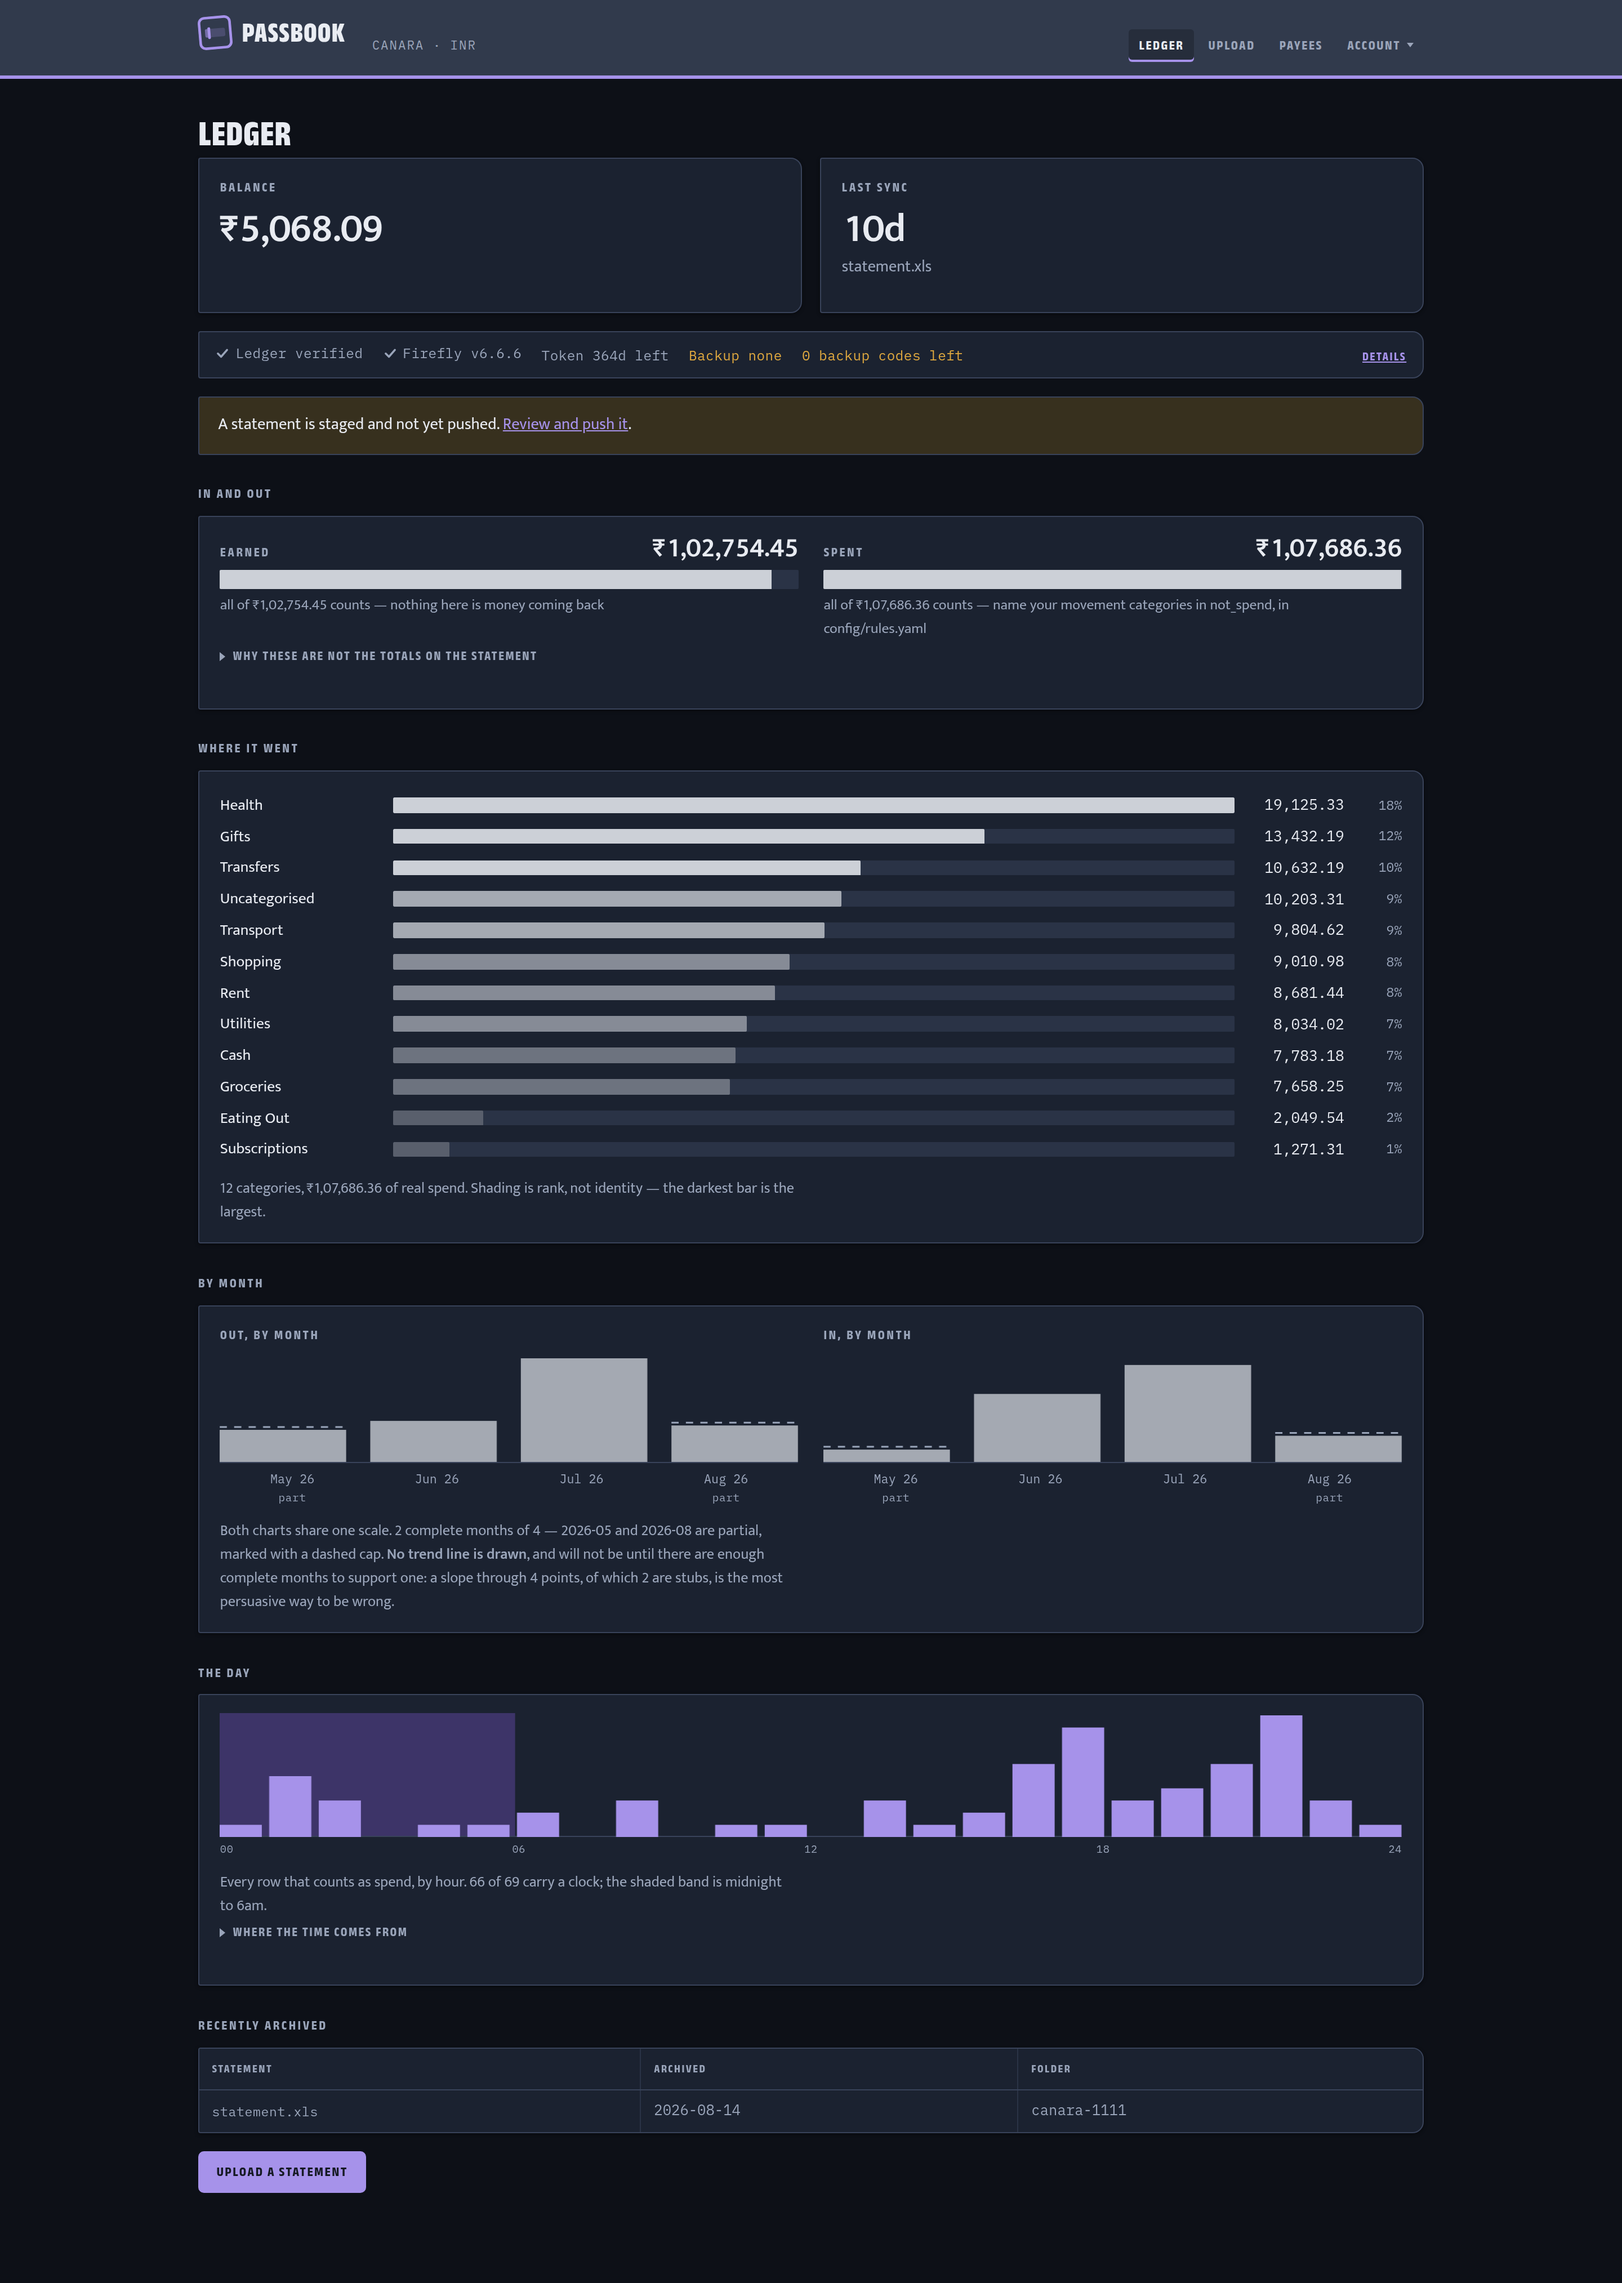
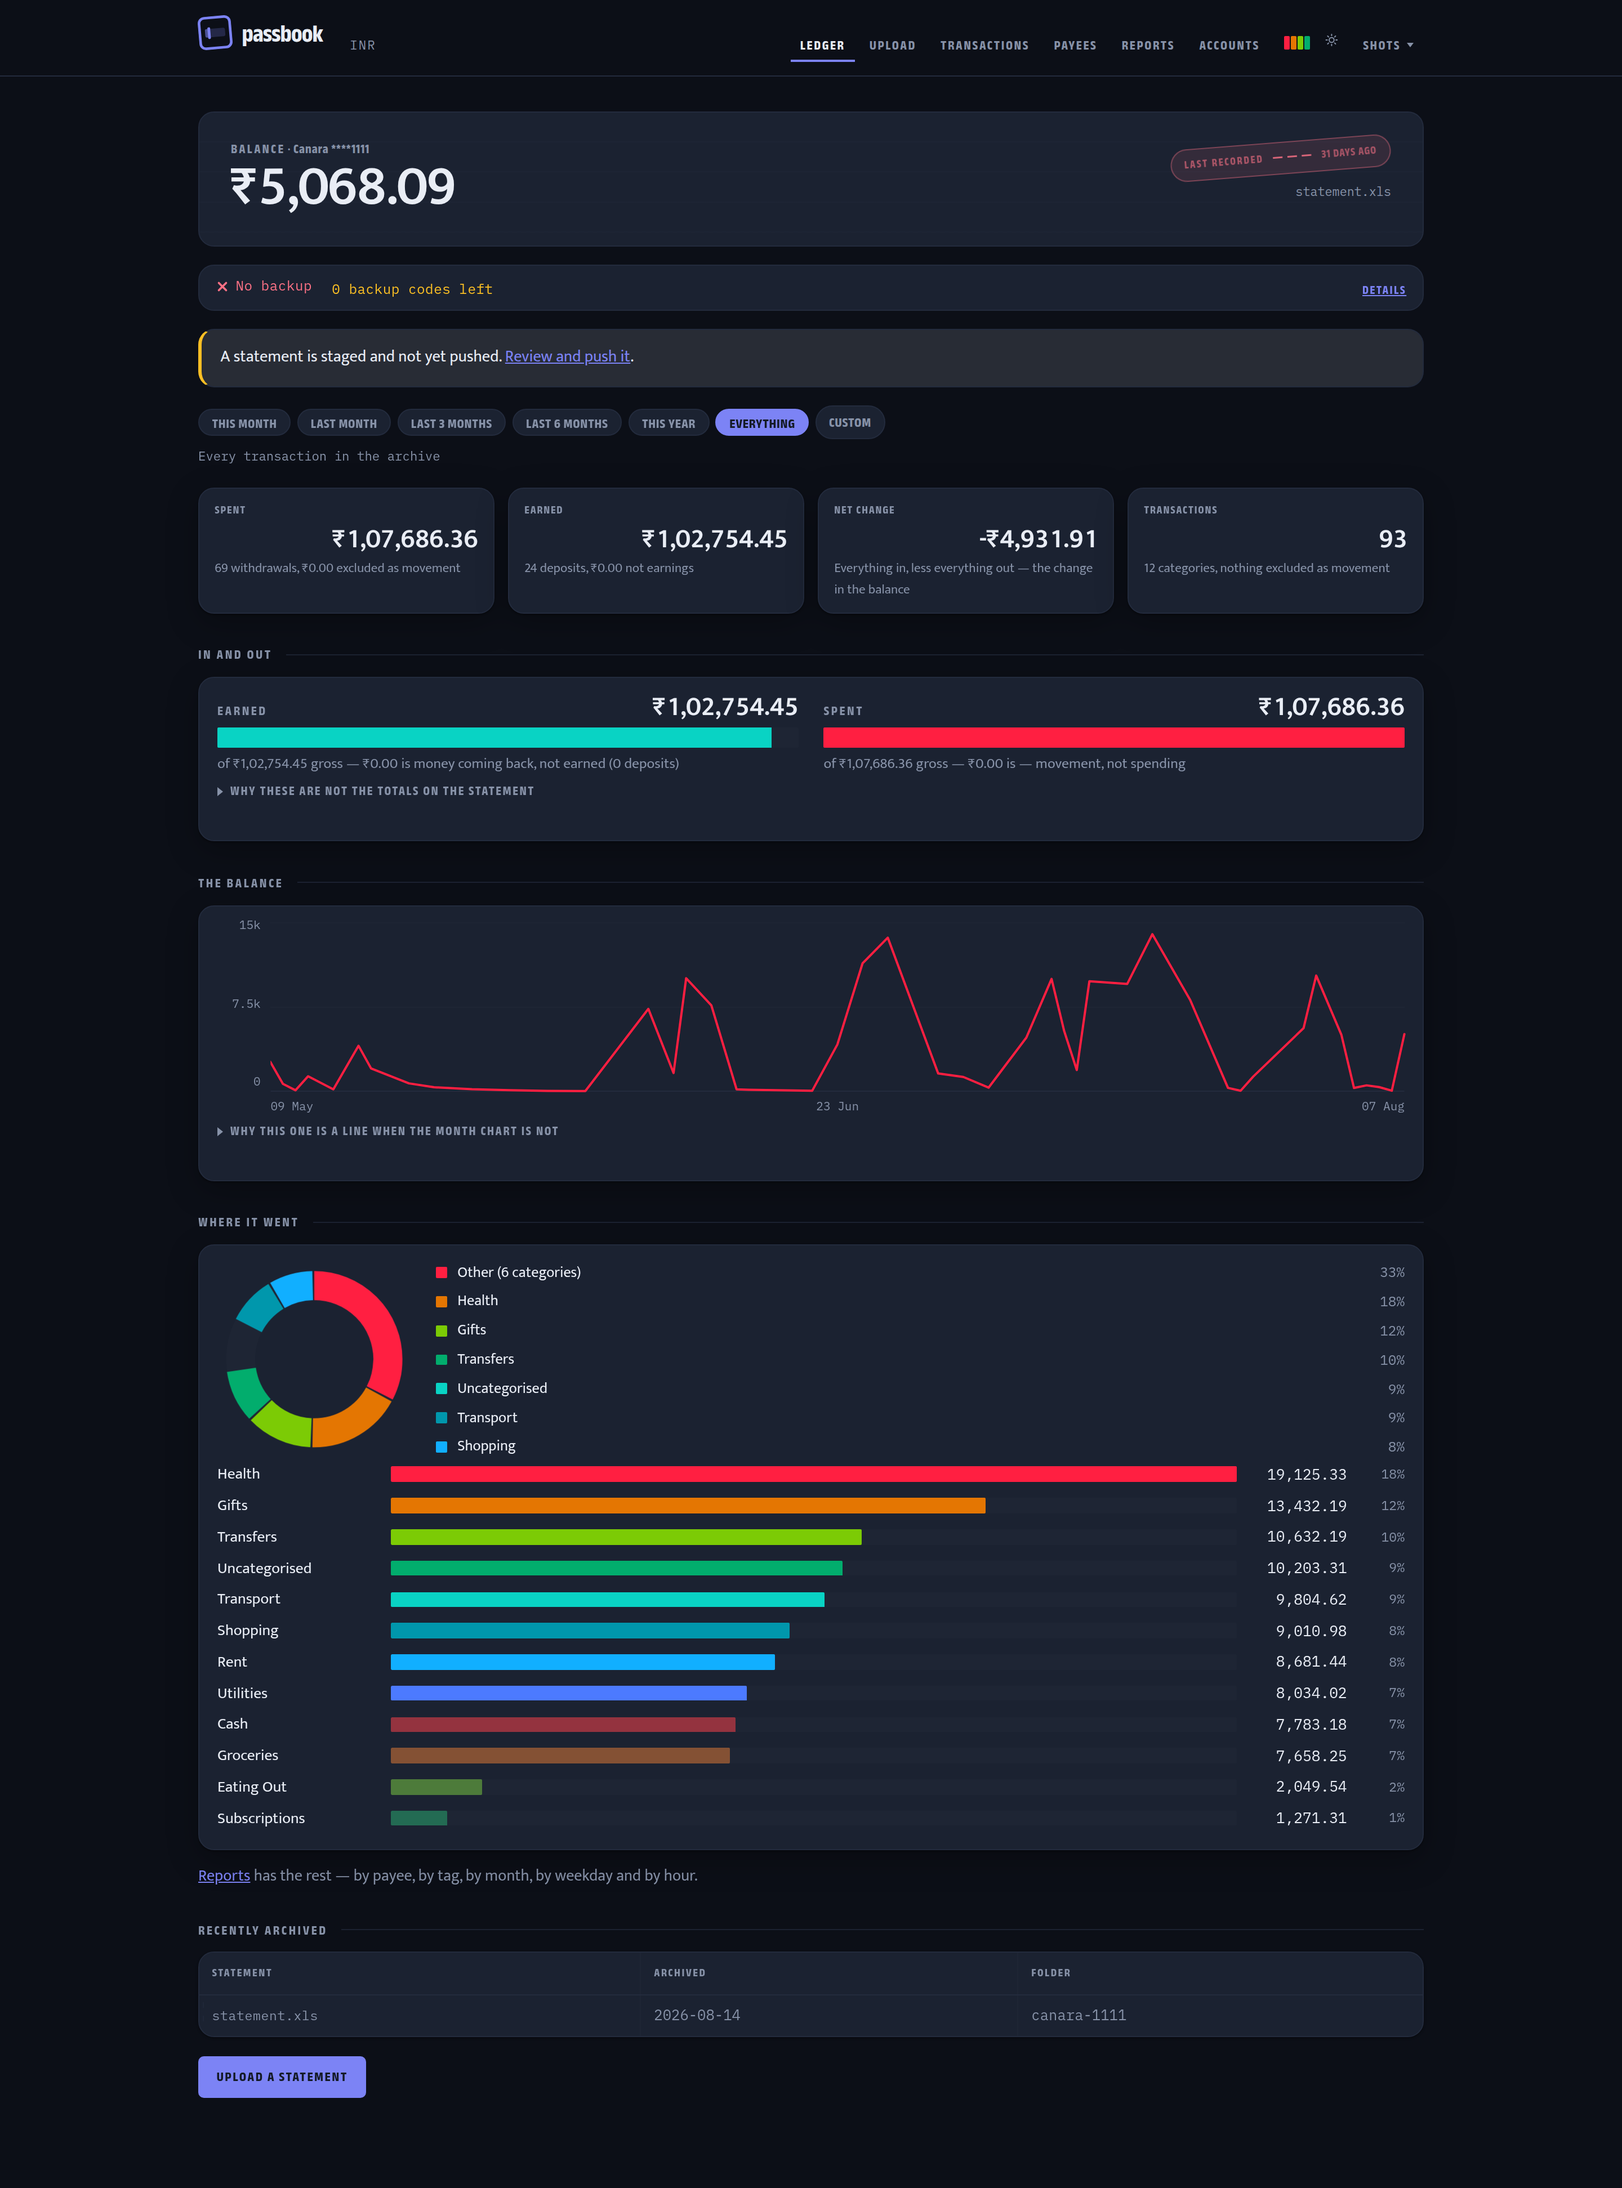
Document the pages that shipped and regenerate the screenshots from the fixture

diff --git a/README.md b/README.md
@@ -18,6 +18,11 @@ shows you what it excluded instead of hiding it.
 
 ![The Ledger page](docs/screenshots/ledger.png)
 
+<sub>Reports cuts the same analysis five ways — by category, by payee, by tag,
+over time, and the rhythm of the week:</sub>
+
+![Reports](docs/screenshots/reports.png)
+
 <sub>It reads the statement, categorises it, and pushes it into Firefly III,
 which keeps the ledger:</sub>
 
@@ -62,6 +67,23 @@ No terminal.
 | ⚠ | Needs a PC (Windows, macOS or Linux). Not a phone |
 | ❌ | You want automatic bank sync — India's Account Aggregator framework is closed to individuals, so nobody self-hosted can offer it |
 
+## What it does
+
+Everything below happens in the browser. There is a CLI and you never have to
+open it.
+
+| | |
+|---|---|
+| **Upload** | drop the statement in; it parses, walks the balance chain, and shows you what it found before anything is written |
+| **Ledger** | balance, what you spent, what you earned, where it went, and the rhythm of your week |
+| **Rows** | every transaction, searchable — by payee, category, amount band, tag or date |
+| **Reports** | by category, by payee, by tag, over time — one page with a control, not five screens |
+| **Payees** | name them once; the naming sticks, and edits reach rows already in the ledger |
+| **Accounts** | add, rename and remove accounts; combine any subset in one view |
+| **Add a bank** | not one of the three that ship? Map your own columns in about ten minutes |
+| **Reminder** | a real calendar invitation, so it reaches you when the laptop is shut |
+| **Backups** | take a database dump from a button; verified, off-site archives from the host |
+
 ## What makes it different
 
 Most expense trackers show you a number. This one tries hard not to show you a
@@ -80,6 +102,10 @@ wrong number.
   floats touch your balance.
 - **Backups are drilled, not assumed.** `make dr-drill` rebuilds the whole ledger
   from the encrypted archives on every run.
+- **A rename reaches the rows you already pushed.** Editing a payee used to
+  change only what *future* imports produced; now it updates the ledger in
+  place, sending only the four fields config owns — never an amount, a date or
+  a type, which is the only reason a rename cannot corrupt anything.
 
 ## Help wanted
 
@@ -106,7 +132,7 @@ will. There is no install counter and there is not going to be one.
 |---|---|
 | [What is this?](docs/what-is-this.md) | the idea in plain language — start here if you are not a developer |
 | [SETUP.md](SETUP.md) | install, first run, signing in, when it breaks |
-| [Usage](docs/usage.md) | the weekly cycle, rules, checking the ledger, more than one account |
+| [Usage](docs/usage.md) | the weekly cycle, rules, reports, reminders, more than one account |
 | [Backups](docs/backups.md) | `make backup`, off-site, the recovery runbook |
 | [Operations](docs/operations.md) | what runs, the threat model, tests |
 | [Contributing](CONTRIBUTING.md) · [SPEC](DECISIONS.md) | house rules, and every decision with the measurement behind it |

diff --git a/docs/usage.md b/docs/usage.md
@@ -218,6 +218,65 @@ Writing a migration is in [CONTRIBUTING.md](../CONTRIBUTING.md#writing-a-migrati
 
 ---
 
+## Looking at it
+
+Four pages, and they answer different questions.
+
+**Ledger** is the overview: the balance, what you actually spent, what you
+actually earned, and where it went. Every figure on it respects the exclusions
+described above — nothing here is a raw by-type total.
+
+**Rows** is every transaction, searchable. Payee, category, amount, or the
+bank's own narration; filter by direction, category, tag, a size band, or the
+window. It deliberately has **no running balance column**: a balance over a
+filtered, reordered view asserts a continuity that is not there, and the balance
+chain is the one thing this project will not fudge. The statement sheet keeps
+its balance; a search result does not get one.
+
+**Reports** is the same analysis cut five ways — by category, by payee, by tag,
+over time, and the rhythm of the week and the hour. Firefly ships these as
+separate screens; they are one shape, so they are one page with a control.
+
+**Payees** is where decisions get made, and where the three config edits live
+that used to need a text editor: creating a category, removing an empty one, and
+saying what counts as earned.
+
+### The window
+
+Every page takes a date range — this month, last month, 3 or 6 months, this year,
+everything, or a custom pair. It is resolved on the server and echoed back, so
+what you see is the scope the server used rather than the one the page asked for.
+It lives in the URL, so a reload or a shared link keeps it.
+
+## A reminder that arrives when the laptop is shut
+
+Nothing here is scheduled, because the machine this runs on sleeps. A cron entry
+that fires with the lid closed is a reminder that never arrives.
+
+So passbook does not send the reminder — **your calendar does**. The page builds
+the event and hands it over three ways:
+
+- **Open in Google Calendar** — needs nothing set up, which is why it is first.
+- **Download .ics** — for Apple Calendar, Outlook, anything.
+- **Email me the invite** — needs a mail server, and the button says so rather
+  than failing when you press it.
+
+Mail settings, if you want them, live in `config/reminder.yaml`, owner-only, and
+are never shown back to you.
+
+## Taking a backup
+
+```bash
+make backup          # from a terminal
+```
+
+or press **Take a backup** on the Status strip. Either way it is a real
+`pg_dump`, and the purge refuses to run without one from the last hour.
+
+> The client in the image is pinned to the database's own major version. A
+> newer `pg_dump` will happily dump an older server and emit output that server
+> cannot read back — so the backup looks perfect until the day you need it.
+
 ## More than one account
 
 The first statement registers its own account, so a single-account setup needs no

diff --git a/docs/operations.md b/docs/operations.md
@@ -13,7 +13,7 @@ What runs, what it assumes about your threat model, and how to run the tests.
 | `app` | `fireflyiii/core:version-6.6.6` | `127.0.0.1:8080`, settable via `FIREFLY_HOST_PORT` |
 | `db` | `postgres:16-alpine` | none — not published to the host |
 | `web` | built from this repository | `127.0.0.1:8081` |
-| `caddy` | `caddy:2.8-alpine` | `127.0.0.1:80` — `passbook.localhost`, `khata.localhost` |
+| `caddy` | `caddy:2.8-alpine` | `127.0.0.1:80` — `passbook.localhost`, and nothing else |
 
 ```bash
 make up | down | logs | ps | check
@@ -30,8 +30,25 @@ and a scheduler that silently stops is worse than none. **No data-importer
 container** — this pushes over the REST API instead, which gives explicit dedup
 control and lets it set category, tags and notes at creation.
 
+**One door.** Caddy serves `passbook.localhost` and nothing else — the ledger
+store is a service, not a page. A test asserts the *route* is gone rather than
+the word, because the block is commented out and grepping would pass a weaker
+check.
+
 The web UI is a front end over the same `service.py` the CLI uses. It is never a
-second implementation: one parser, one push path, one balance invariant.
+second implementation: one parser, one push path, one balance invariant. The
+JSON API is a package of twelve modules sharing one blueprint, split by subject;
+`tests/test_routes.py` reads the route decorators out of the source and asserts
+the URL map agrees, because **a module nobody imports is a route that quietly
+does not exist**.
+
+Two caches live on disk, both behind signatures that predate them: the parse of
+each archived statement is memoised on its content, and an index over the
+archive answers "which rows, in this window" without reading every file. The
+memo covers the *file parse only* — enrichment and validation still run every
+time, so a new alias or a changed rule takes effect on the next page load rather
+than when somebody remembers to clear a cache. If the index cannot be opened,
+both fall back to reading the files.
 
 ---
 
